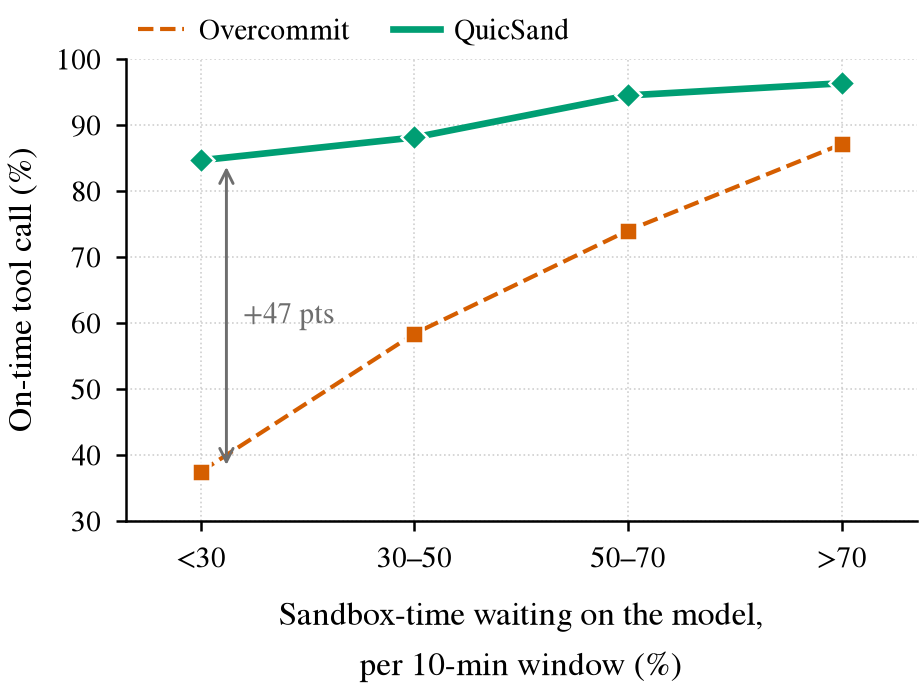
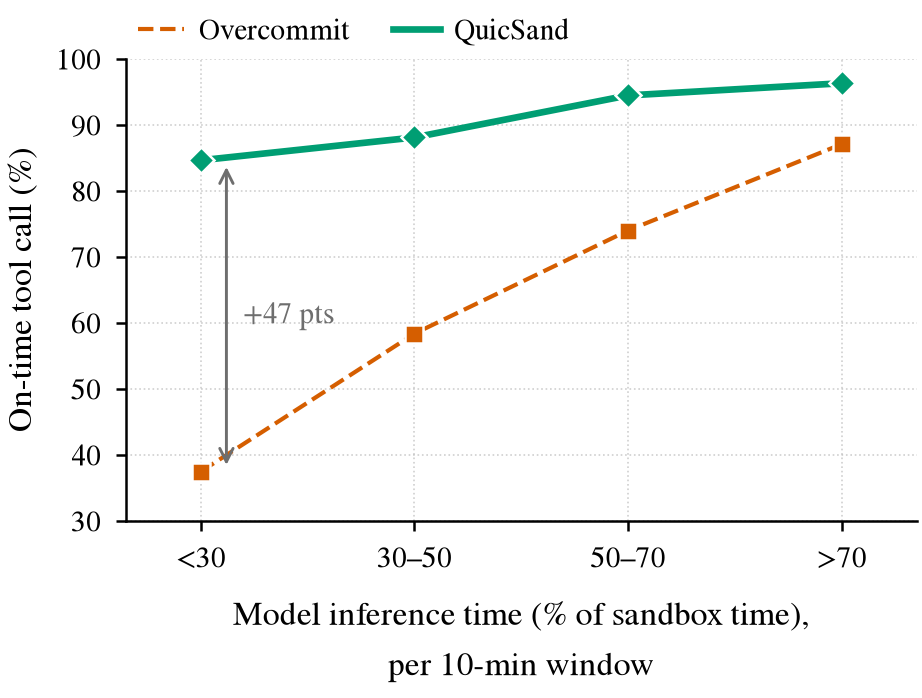
Rename x-axis to model inference time (% of sandbox time)
Claude-Session: https://claude.ai/code/session_01LLCmu6CwS5SzLK4VfrzjhT

Changed region(s): [[0.243, 0.8424, 0.8807, 0.9026], [0.3948, 0.9327, 0.7592, 0.9928]]

diff --git a/scripts/plot_share.py b/scripts/plot_share.py
@@ -34,8 +34,8 @@ PANELS = [("algotune/run4-max-50", "AlgoTune\nSonnet"), ("algotune/run1-deepseek
 # call (1 s floor). Inference share: per 10-minute window, sandbox-time spent waiting on a model
 # response over sandbox-time resident.
 Y_LABEL = "On-time tool call (%)"
-X_LABEL = "Share of sandbox-time spent waiting on the model, per 10-min window (%)"
-X_LABEL_SHORT = "Sandbox-time waiting on the model,\nper 10-min window (%)"
+X_LABEL = "Model inference time (% of sandbox time), per 10-min window"
+X_LABEL_SHORT = "Model inference time (% of sandbox time),\nper 10-min window"
 
 
 def family(run: str) -> str:
